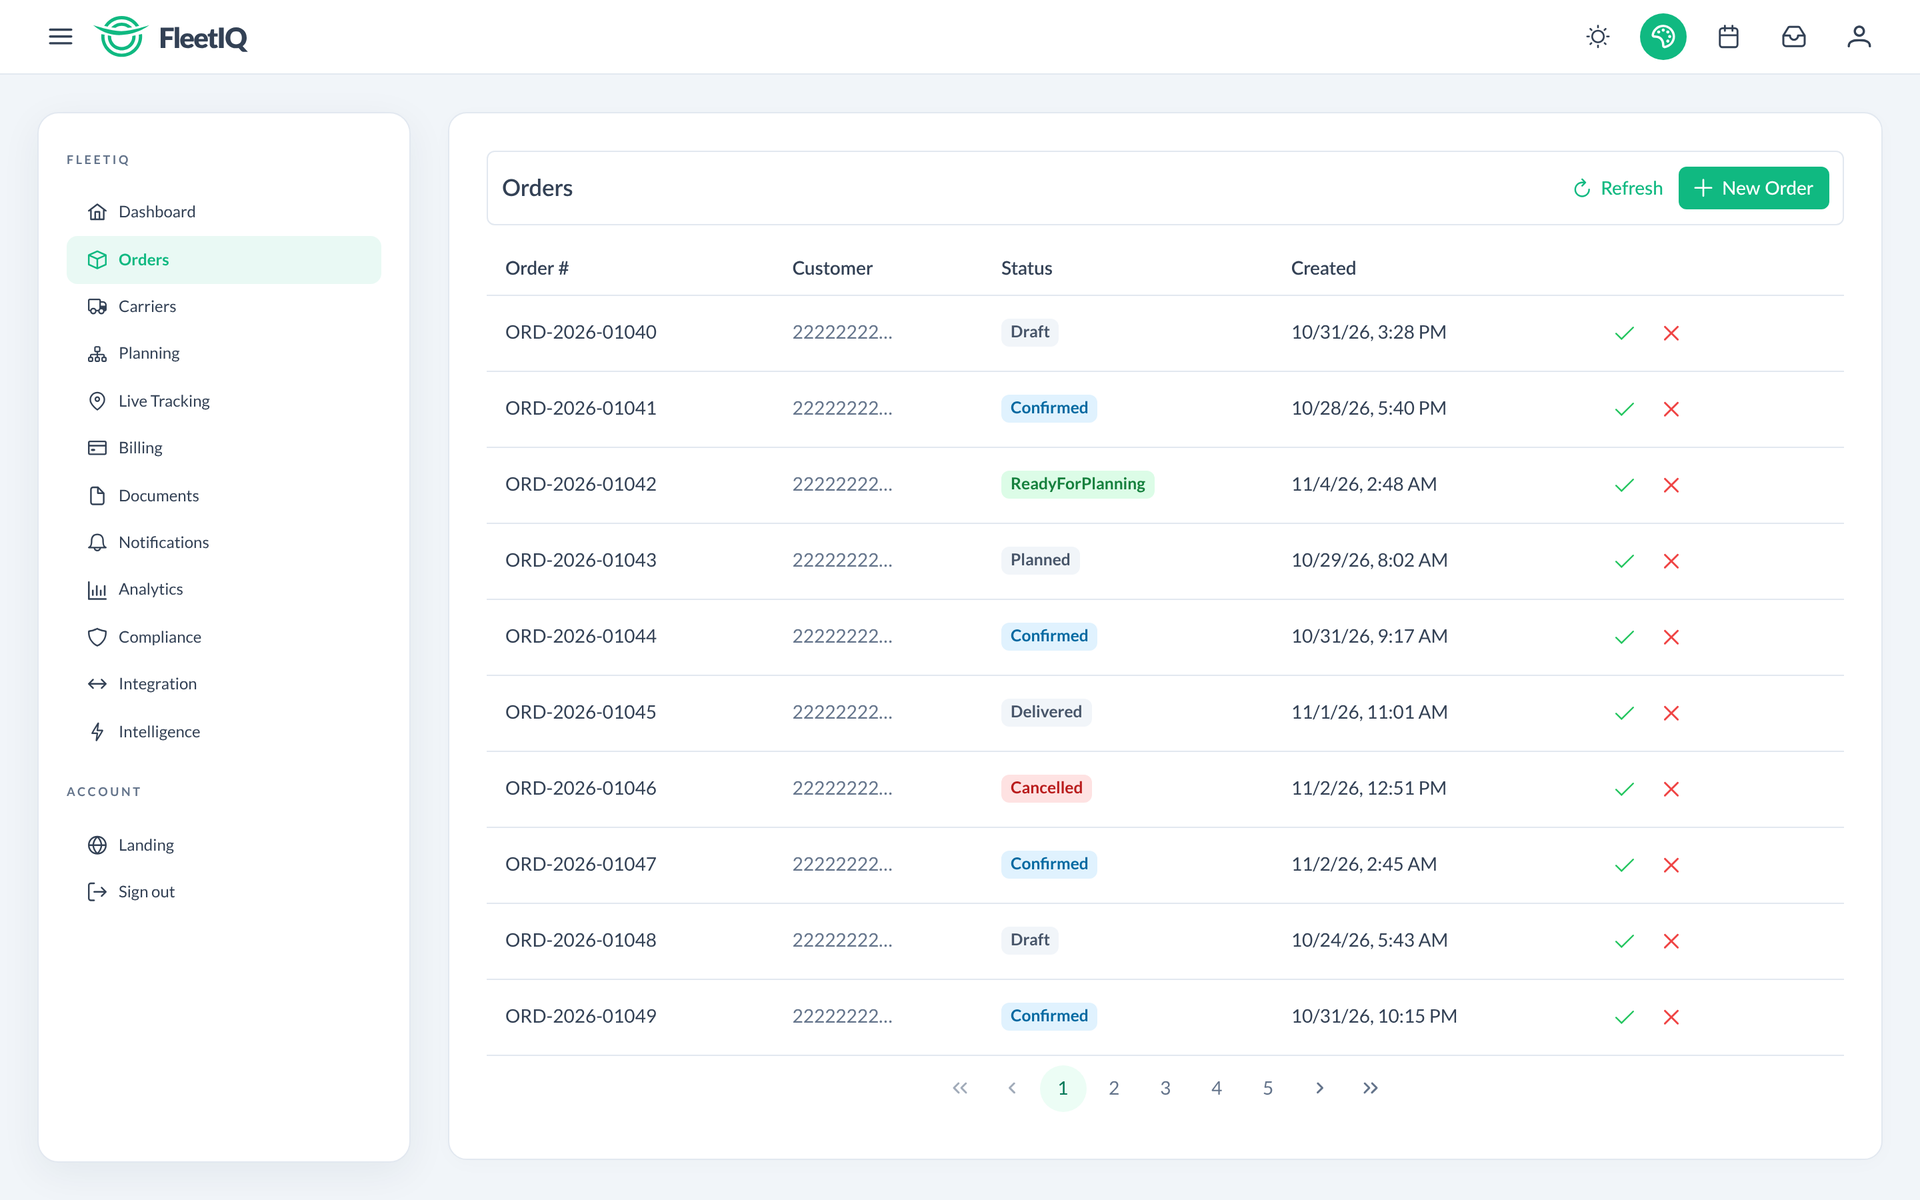
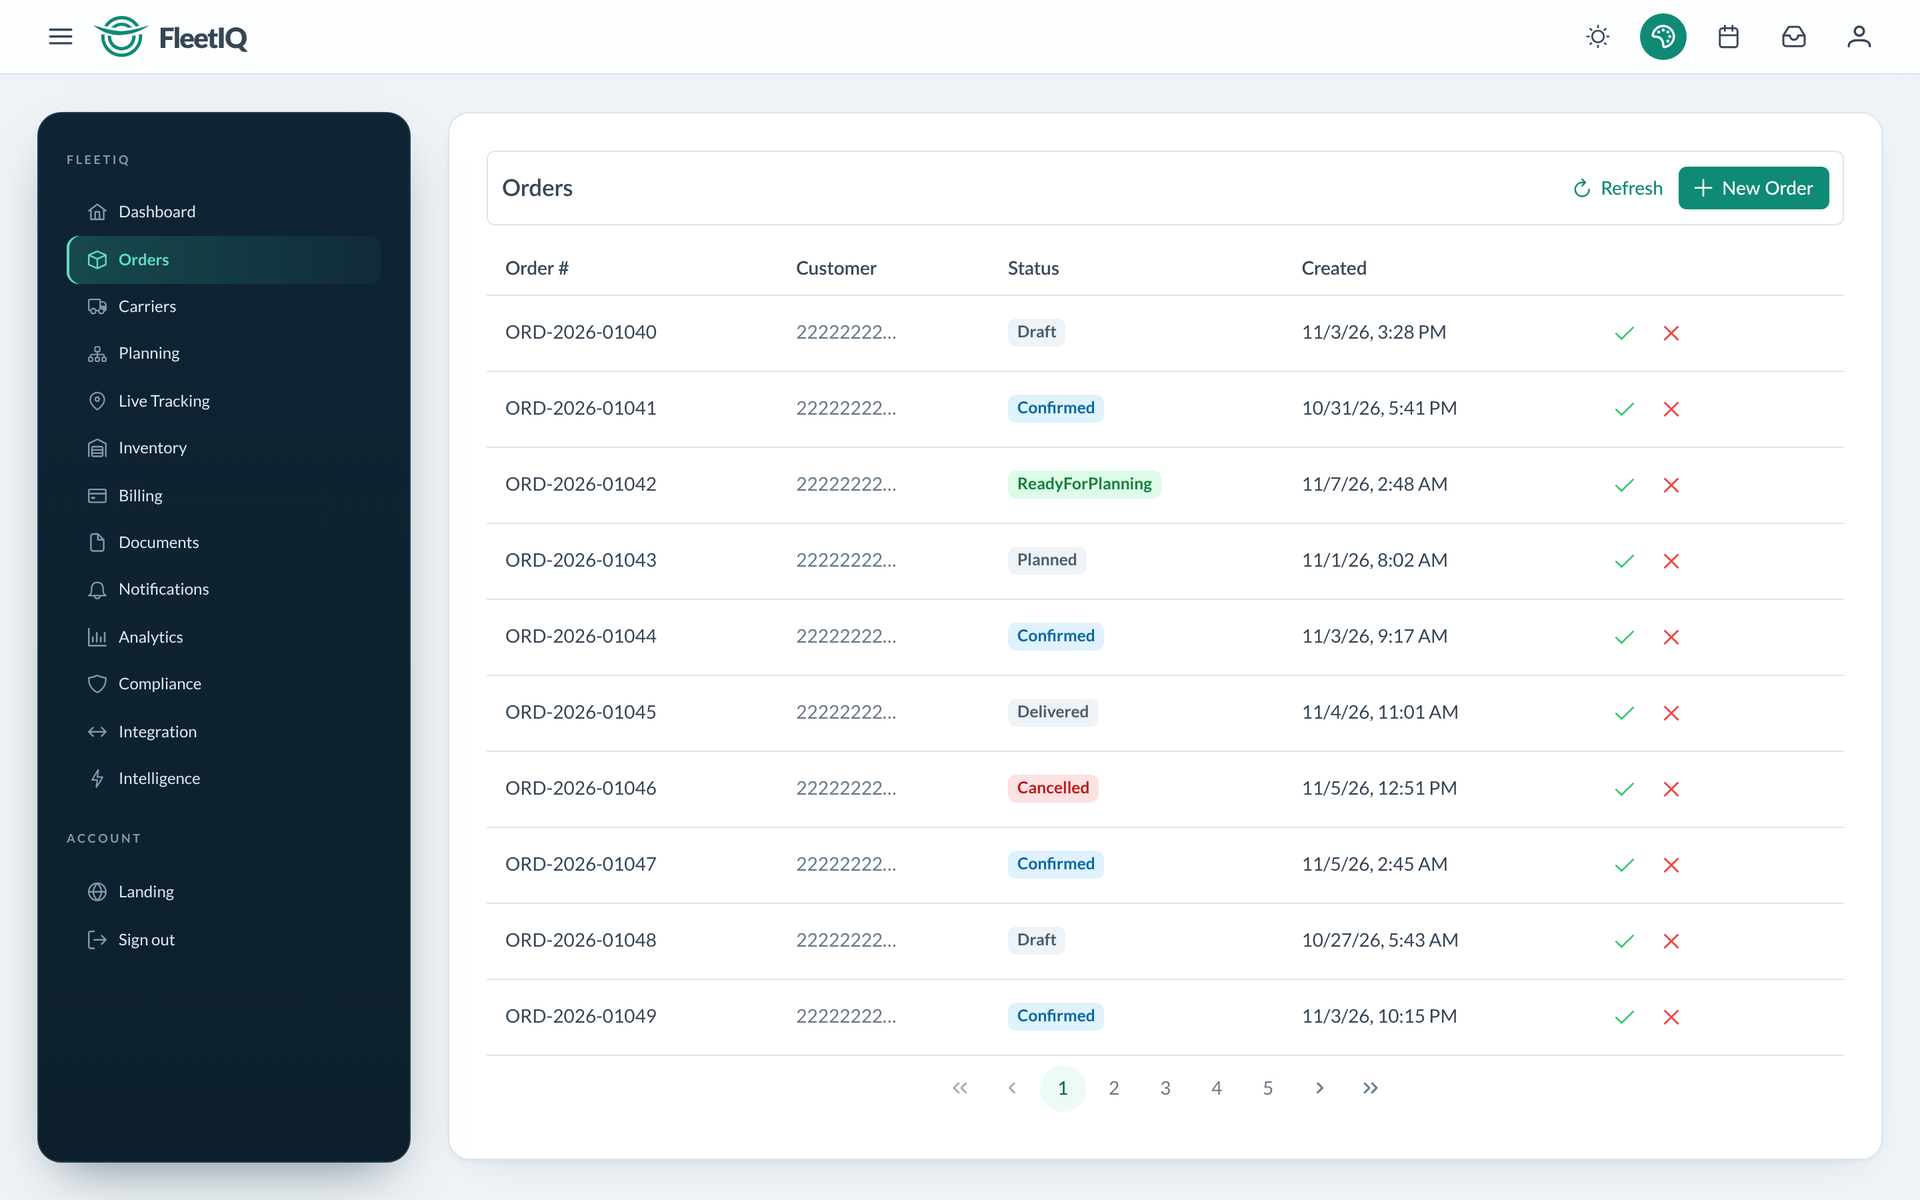
feat(ui): FleetIQ brand theme with light and dark modes
- Brand palette: teal primary, cool-grey light surfaces and the navy of
  the control-tower scene for dark surfaces, registered as the default
  in the theme configurator.
- Shell: navy sidebar in both modes with a highlighted active route,
  translucent top bar, softer cards, and a horizon glow in dark mode.
- The mode follows the system preference on first visit and the choice
  made from the top bar is remembered.
- Tracking page chips, statuses and map button get dark variants.
- README shows both modes; screenshots refreshed.

Claude-Session: https://claude.ai/code/session_016cUSQG9UTyfg3bwSTgDuth

diff --git a/frontend/src/assets/styles.scss b/frontend/src/assets/styles.scss
@@ -11,14 +11,66 @@
     border: none;
 }
 
-/* Shared operations shell: keep the public landing page's own visual language. */
+/* ---------- FleetIQ shell: one design, two modes (see app/layout/fleetiq-theme.ts) ---------- */
+:root {
+    --fiq-sidebar: #0f2433;
+    --fiq-sidebar-border: #1d3a4d;
+    --fiq-glow: #2fc2a3;
+}
+:root[class*='app-dark'] {
+    --fiq-sidebar: #0c1f2d;
+    --fiq-sidebar-border: #1c3747;
+}
+/* Dark mode: the control-tower navy with a faint horizon glow, as in the 3D scene. */
+:root[class*='app-dark'] body {
+    background:
+        radial-gradient(1100px 520px at 78% -8%, color-mix(in srgb, var(--fiq-glow) 13%, transparent), transparent 70%),
+        var(--surface-ground);
+    background-attachment: fixed;
+}
+
 .layout-wrapper {
     font-family: 'Lato', system-ui, sans-serif;
-    .layout-topbar { border-bottom: 1px solid var(--surface-border); }
+
+    .layout-topbar {
+        border-bottom: 1px solid var(--surface-border);
+        background: color-mix(in srgb, var(--surface-card) 86%, transparent);
+        backdrop-filter: blur(14px);
+    }
     .layout-topbar-logo { font-weight: 800; letter-spacing: -.8px; }
-    .layout-sidebar { border: 1px solid var(--surface-border); box-shadow: 0 8px 30px #132d4210; border-radius: 16px; }
+
+    /* The navy sidebar anchors both modes; inside it the text tokens are redefined for a dark surface. */
+    .layout-sidebar {
+        --text-color: #dbe7ee;
+        --text-color-secondary: #7f9aab;
+        --surface-hover: rgba(255, 255, 255, .07);
+        --primary-color: #5fdcc0;
+        background: linear-gradient(180deg, color-mix(in srgb, var(--fiq-sidebar) 100%, #fff 0%), color-mix(in srgb, var(--fiq-sidebar) 88%, #000));
+        border: 1px solid var(--fiq-sidebar-border);
+        border-radius: 18px;
+        box-shadow: 0 18px 40px -18px rgba(8, 26, 38, .55);
+    }
     .layout-menu .layout-menuitem-root-text { font-size: 9px; letter-spacing: 1.8px; color: var(--text-color-secondary); padding: 12px 0 6px; }
-    .layout-menu a { border-radius: 8px; font-size: 12px; }
-    .layout-menu a.active-route { background: color-mix(in srgb, var(--primary-color) 9%, transparent); }
-    .card { border: 1px solid var(--surface-border); border-radius: 14px; box-shadow: 0 3px 16px #132d4205; }
+    .layout-menu a { border-radius: 9px; font-size: 12px; }
+    .layout-menu a .layout-menuitem-icon { color: var(--text-color-secondary); transition: color var(--element-transition-duration); }
+    .layout-menu a:hover .layout-menuitem-icon { color: var(--text-color); }
+    .layout-menu a.active-route {
+        background: linear-gradient(90deg, color-mix(in srgb, var(--fiq-glow) 24%, transparent), color-mix(in srgb, var(--fiq-glow) 5%, transparent));
+        box-shadow: inset 2px 0 0 var(--primary-color);
+        .layout-menuitem-icon { color: var(--primary-color); }
+    }
+
+    .card {
+        border: 1px solid var(--surface-border);
+        border-radius: 16px;
+        box-shadow: 0 1px 2px rgba(19, 45, 66, .04), 0 10px 28px -18px rgba(19, 45, 66, .22);
+    }
+}
+
+:root[class*='app-dark'] .layout-wrapper {
+    .card {
+        background: linear-gradient(180deg, color-mix(in srgb, var(--surface-card) 94%, #fff), var(--surface-card));
+        box-shadow: 0 1px 0 rgba(255, 255, 255, .03) inset, 0 16px 34px -22px rgba(0, 0, 0, .7);
+    }
+    .p-datatable, .p-toolbar { --p-datatable-header-cell-background: transparent; }
 }

diff --git a/frontend/src/app/layout/fleetiq-theme.ts b/frontend/src/app/layout/fleetiq-theme.ts
@@ -1,0 +1,33 @@
+/**
+ * FleetIQ brand theme. One teal primary and two surface ramps: a cool grey for the light mode and
+ * the navy of the control-tower 3D scene for the dark mode, so the app and the scene share one look.
+ */
+export const BRAND_PRIMARY = {
+    50: '#ecfbf6', 100: '#d0f5e9', 200: '#a4ead5', 300: '#6bd8bd', 400: '#2fc2a3', 500: '#0e8a75',
+    600: '#0b7463', 700: '#0b5d50', 800: '#0b4a41', 900: '#0a3d36', 950: '#04241f'
+};
+
+export const SURFACE_LIGHT = {
+    0: '#ffffff', 50: '#f6f9fb', 100: '#eef3f7', 200: '#dde6ec', 300: '#c5d2dc', 400: '#93a6b5', 500: '#65798a',
+    600: '#4a5d6e', 700: '#354656', 800: '#1f2f3d', 900: '#13212d', 950: '#0a151e'
+};
+
+export const SURFACE_DARK = {
+    0: '#ffffff', 50: '#f1f6f9', 100: '#dfe9ef', 200: '#c2d3dd', 300: '#9bb3c2', 400: '#7391a3', 500: '#547285',
+    600: '#3b5769', 700: '#24404f', 800: '#162f40', 900: '#0f2433', 950: '#091a26'
+};
+
+const STORAGE_KEY = 'fleetiq.theme';
+
+/** Saved choice first, then the operating-system preference. Storage can be unavailable (private mode). */
+export function initialDarkTheme(): boolean {
+    try {
+        const saved = localStorage.getItem(STORAGE_KEY);
+        if (saved === 'dark' || saved === 'light') return saved === 'dark';
+    } catch { /* fall through to the system preference */ }
+    return typeof matchMedia === 'function' && matchMedia('(prefers-color-scheme: dark)').matches;
+}
+
+export function rememberDarkTheme(dark: boolean) {
+    try { localStorage.setItem(STORAGE_KEY, dark ? 'dark' : 'light'); } catch { /* not persisted */ }
+}

diff --git a/frontend/src/app/layout/component/app.configurator.ts b/frontend/src/app/layout/component/app.configurator.ts
@@ -8,6 +8,7 @@ import Lara from '@primeuix/themes/lara';
 import Nora from '@primeuix/themes/nora';
 import { PrimeNG } from 'primeng/config';
 import { SelectButtonModule } from 'primeng/selectbutton';
+import { BRAND_PRIMARY, SURFACE_DARK, SURFACE_LIGHT } from '../fleetiq-theme';
 import { LayoutService } from '../service/layout.service';
 
 const presets = {
@@ -122,6 +123,8 @@ export class AppConfigurator {
     }
 
     surfaces: SurfacesType[] = [
+        // Brand default: cool grey in light mode, control-tower navy in dark mode.
+        { name: 'fleetiq', palette: { ...SURFACE_LIGHT, light: SURFACE_LIGHT, dark: SURFACE_DARK } as SurfacesType['palette'] },
         {
             name: 'slate',
             palette: {
@@ -273,7 +276,7 @@ export class AppConfigurator {
     primaryColors = computed<SurfacesType[]>(() => {
         const presetPalette = presets[this.layoutService.layoutConfig().preset as KeyOfType<typeof presets>].primitive;
         const colors = ['emerald', 'green', 'lime', 'orange', 'amber', 'yellow', 'teal', 'cyan', 'sky', 'blue', 'indigo', 'violet', 'purple', 'fuchsia', 'pink', 'rose'];
-        const palettes: SurfacesType[] = [{ name: 'noir', palette: {} }];
+        const palettes: SurfacesType[] = [{ name: 'fleetiq', palette: BRAND_PRIMARY }, { name: 'noir', palette: {} }];
 
         colors.forEach((color) => {
             palettes.push({

diff --git a/frontend/src/app/layout/service/layout.service.ts b/frontend/src/app/layout/service/layout.service.ts
@@ -1,5 +1,6 @@
 import { Injectable, effect, signal, computed } from '@angular/core';
 import { Subject } from 'rxjs';
+import { initialDarkTheme, rememberDarkTheme } from '../fleetiq-theme';
 
 export interface layoutConfig {
     preset?: string;
@@ -28,9 +29,9 @@ interface MenuChangeEvent {
 export class LayoutService {
     _config: layoutConfig = {
         preset: 'Aura',
-        primary: 'emerald',
-        surface: null,
-        darkTheme: false,
+        primary: 'fleetiq',
+        surface: 'fleetiq',
+        darkTheme: initialDarkTheme(),
         menuMode: 'static'
     };
 
@@ -79,6 +80,9 @@ export class LayoutService {
     private initialized = false;
 
     constructor() {
+        // The transition effect below skips its first run, so apply a saved/system dark choice here.
+        this.toggleDarkMode(this._config);
+        effect(() => rememberDarkTheme(!!this.layoutConfig().darkTheme));
         effect(() => {
             const config = this.layoutConfig();
             if (config) {

diff --git a/frontend/src/app/pages/tracking/tracking.scss b/frontend/src/app/pages/tracking/tracking.scss
@@ -36,3 +36,16 @@ button:focus-visible, input:focus-visible, select:focus-visible { outline:3px so
 
 // Explicit translucent selection also keeps contrast when the theme changes at runtime.
 .shipment.selected { background:rgba(29,185,152,.08); border-color:rgba(29,185,152,.45); }
+
+// Dark mode: pastel chips become tinted glass so they sit on the navy surfaces.
+:host-context(.app-dark) {
+    .metric-icon { background:rgba(148,178,196,.12); color:#a9c0cf; }
+    .metric-icon.mint { background:rgba(47,194,163,.15); color:#63dcc0; }
+    .metric-icon.blue { background:rgba(96,156,235,.16); color:#8fbcf5; }
+    .metric-icon.amber { background:rgba(232,176,80,.15); color:#ecc27a; }
+    .status { color:#8fbcf5; background:rgba(96,156,235,.14); }
+    .status.delivered { color:#63dcc0; background:rgba(47,194,163,.14); }
+    .truck-badge { color:#7fd3c4; }
+    .fit-button { border-color:#355260; background:#122e40; color:#cfe5ee; }
+    .view-switch button.active { box-shadow:0 1px 6px rgba(0,0,0,.4); }
+}

diff --git a/frontend/src/app/pages/inventory/inventory.ts b/frontend/src/app/pages/inventory/inventory.ts
@@ -87,7 +87,7 @@ const MOVES: MoveOption[] = [
                         <td class="text-right">{{ i.quantityReserved | number: '1.0-3' }}</td>
                         <td class="text-right font-semibold" [class.text-orange-500]="i.isBelowReorderPoint">{{ i.quantityAvailable | number: '1.0-3' }}</td>
                         <td class="text-right text-muted-color">{{ i.reorderPoint | number: '1.0-3' }}</td>
-                        <td>
+                        <td class="whitespace-nowrap">
                             @if (i.status === 'Discontinued') { <p-tag value="Discontinued" severity="secondary" /> }
                             @else if (i.isBelowReorderPoint) { <p-tag value="Low stock" severity="warn" /> }
                             @else { <p-tag value="In stock" severity="success" /> }

diff --git a/README.md b/README.md
@@ -45,6 +45,18 @@ exclusively through the Gateway, authenticated with OIDC (Authorization Code + P
   <img src="docs/images/screenshots/landing.jpg" alt="FleetIQ landing page" width="100%">
 </p>
 
+### One design, two modes
+
+A refined light mode and a dark "Control Tower" mode that matches the 3D scene. The choice follows
+the operating system on the first visit, is toggled from the top bar and is remembered.
+
+<table>
+  <tr>
+    <td width="50%"><img src="docs/images/screenshots/theme-light.png" alt="Dashboard in light mode with a navy sidebar"></td>
+    <td width="50%"><img src="docs/images/screenshots/theme-dark.png" alt="Dashboard in dark Control Tower mode"></td>
+  </tr>
+</table>
+
 ### Operations dashboard
 
 One screen for the whole operation: order volume, active loads, shipments in transit and invoiced
